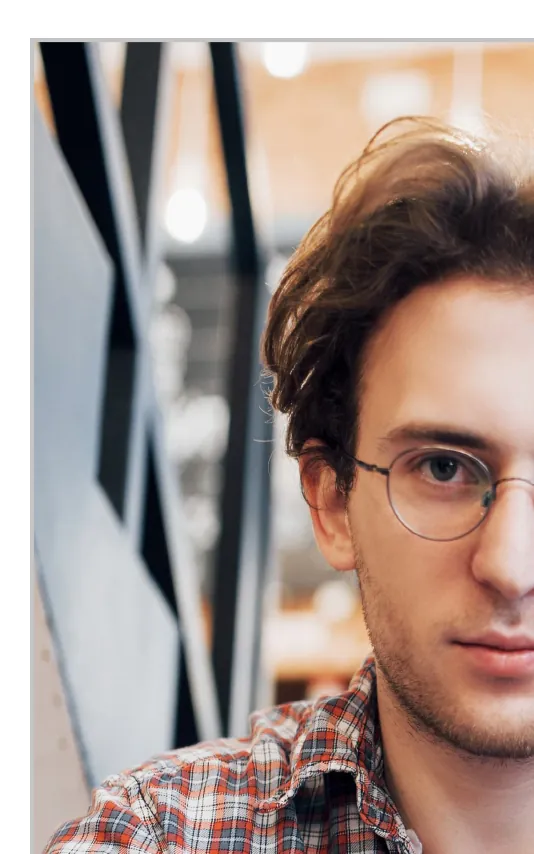
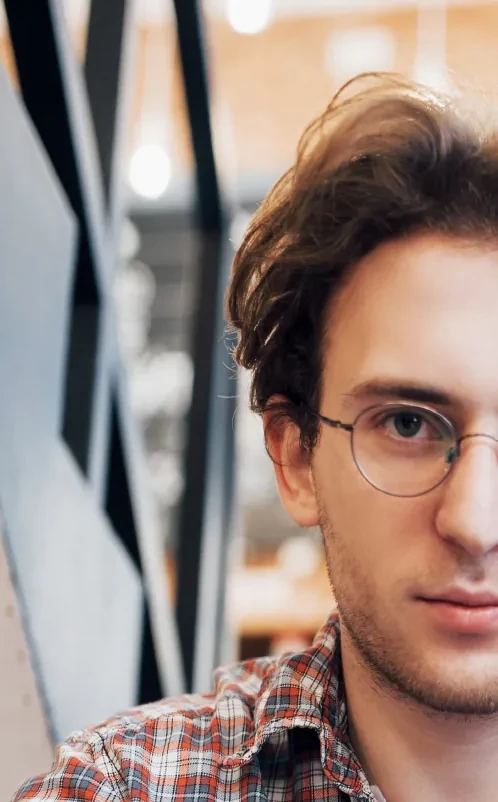
Personas : photos recadrées sans marge blanche ni contour
Claude-Session: https://claude.ai/code/session_01THwdntjNiSuDEHoKbgxniL

diff --git a/assets/css/style.css b/assets/css/style.css
@@ -373,7 +373,7 @@ ul { padding: 0; list-style: none; }
 .st-steps h3 { font-family: var(--mono); font-weight: 700; font-size: 17px; text-transform: uppercase; }
 .st-steps p { margin-top: 4px; font-size: 18px; }
 .st-persona { display: grid; grid-template-columns: 200px minmax(0, 1fr); gap: 28px; background: var(--white); padding: 28px; filter: var(--shadow); }
-.st-persona img { width: 100%; border: 2px solid #c4c4c4; }
+.st-persona img { width: 100%; display: block; border: 0; }
 .st-persona__name { font-weight: 700; font-size: 28px; text-transform: uppercase; line-height: 1.1; }
 .st-persona__sub { font-size: 17px; color: #444; margin-top: 4px !important; }
 .st-persona dl { margin: 18px 0 0; display: flex; flex-direction: column; gap: 10px; font-size: 16px; }

diff --git a/projets/refonte-site-e-commerce-play-in/index.html b/projets/refonte-site-e-commerce-play-in/index.html
@@ -109,7 +109,7 @@
             </ol>
           </div>
           <article class="st-persona" aria-label="Persona : Nicolas Rivard">
-            <img src="../../assets/img/play-in-ecommerce/persona.webp" alt="Photo illustrant le persona Nicolas Rivard" width="534" height="854" loading="lazy">
+            <img src="../../assets/img/play-in-ecommerce/persona.webp" alt="Photo illustrant le persona Nicolas Rivard" width="498" height="802" loading="lazy">
             <div>
               <p class="st-persona__name">Nicolas Rivard</p>
               <p class="st-persona__sub">27 ans · Vendeur-conseil en téléphonie · Paris · Joueur « casu »</p>

diff --git a/projets/camping-minaudieres/index.html b/projets/camping-minaudieres/index.html
@@ -121,7 +121,7 @@
             </ol>
           </div>
           <article class="st-persona" aria-label="Persona : Marianne Lortier">
-            <img src="../../assets/img/camping/persona.webp" alt="Photo illustrant le persona Marianne Lortier" width="404" height="610" loading="lazy">
+            <img src="../../assets/img/camping/persona.webp" alt="Photo illustrant le persona Marianne Lortier" width="400" height="606" loading="lazy">
             <div>
               <p class="st-persona__name">Marianne Lortier</p>
               <p class="st-persona__sub">42 ans · Pharmacienne · Amiens · Mère de 2 enfants</p>
